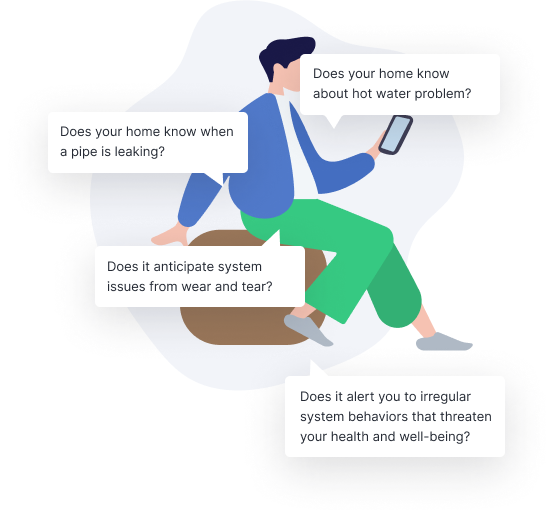
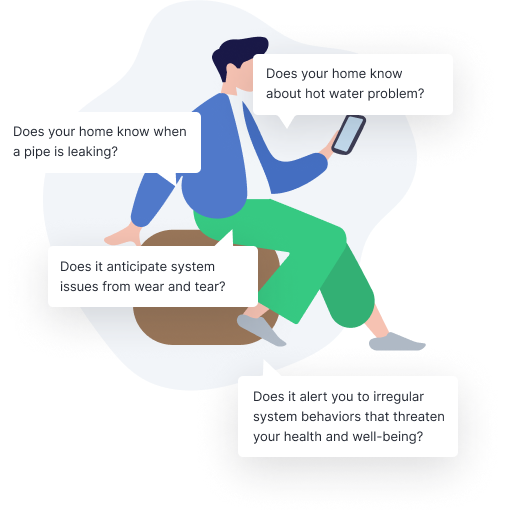
Секция features для dekstop

diff --git a/pages/index.css b/pages/index.css
@@ -10,8 +10,9 @@
   background-repeat: no-repeat;
   background-size: 1100px 840px;
   background-position: top left;
-  height: 100vh;
+  padding-bottom: 160px;
   background-color: #FBFCFF;
+  overflow: hidden;
 }
 
 .header__container {
@@ -88,6 +89,11 @@
   line-height: 15px;
   font-weight: 700;
   color: #262b35;
+  transition: .3s;
+}
+
+.header__btn:hover {
+  color: #1ECE7A;
 }
 
 .header__buttons-item:first-child {
@@ -107,10 +113,13 @@
 
 .header__content-container {
   max-width: 1200px;
-  margin: 0 auto;
+  margin: 75px auto 0;
   position: relative;
   display: flex;
-  margin-left: 200px;
+}
+
+.header__content {
+  margin-top: 50px;
 }
 
 .header__title {
@@ -171,13 +180,13 @@
 
 .header__images {
   position: relative;
-  transform: translateX(200px);
 }
 
 .header__image {
   border-radius: 24px;
   box-shadow: 0px 16px 48px rgba(0, 0, 0, 0.16);
-  position: absolute;
+  margin-left: 200px;
+  position: relative;
 }
 
 .header__image_size_large {
@@ -188,7 +197,125 @@
 .header__image_size_small {
   z-index: 2;
   /* max-width: 400px; */
+  position: absolute;
   width: 400px;
-  left: 188px;
-  bottom: -264px;
+  right: -148px;
+  bottom: -160px;
+}
+
+.section-name {
+  font-family: 'Inter', serif;
+  font-weight: bold;
+  font-size: 15px;
+  line-height: 21px;
+  letter-spacing: 0.6em;
+  color: #1c57c9;
+  text-transform: uppercase;
+}
+
+.section-title {
+  font-family: 'Inter', serif;
+  font-size: 42px;
+  font-weight: bold;
+  line-height: 59px;
+  letter-spacing: -0.02em;
+  color: #262b35;
+}
+
+.section-subtitle {
+  font-family: 'Inter', serif;
+  font-weight: normal;
+  font-size: 18px;
+  line-height: 29px;
+  color: #606c84;
+}
+
+
+.features {
+  max-width: 1200px;
+  margin: 182px auto 0;
+}
+
+.features__quote {
+  max-width: 960px;
+  font-family: 'Inter', serif;
+  font-weight: 500;
+  font-size: 20px;
+  line-height: 32px;
+  letter-spacing: 0.01em;
+  color: #606c84;
+  font-style: italic;
+  margin-bottom: 128px;
+}
+
+.features__content-container {
+  display: flex;
+  align-items: flex-start;
+}
+
+.features__illustration {
+  width: 457px;
+  margin-top: 71px;
+}
+
+.features__content {
+  margin-left: 85px;
+}
+
+.features__section-name {
+  margin-bottom: 16px;
+}
+
+.features__section-title {
+  margin-bottom: 24px;
+}
+
+.features__section-subtitle {
+  max-width: 600px;
+  margin-bottom: 60px;
+}
+
+.features__cards {
+  display: grid;
+  grid-template-columns: repeat(2, minmax(min-content, max-content));
+  grid-template-rows: repeat(2, minmax(min-content, max-content));
+  row-gap: 59px;
+  column-gap: 10px;
+}
+
+.features__card {
+
+}
+
+.features__card-ico {
+  margin-bottom: 36px;
+  height: 55px;
+  width: 55px;
+  margin-bottom: 36px;
+}
+
+.features__card-title {
+  margin-bottom: 16px;
+  max-width: 242px;
+  color: #262b35;
+}
+
+.features__card-text {
+  color: #606c84;
+  max-width: 260px;
+}
+
+
+.card-title {
+  font-family: 'Inter', serif;
+  font-size: 18px;
+  line-height: 24px;
+  font-weight: 600;
+}
+
+.card-text {
+  font-family: 'Inter', serif;
+  font-weight: normal;
+  font-size: 15px;
+  line-height: 24px;
 }

diff --git a/index.html b/index.html
@@ -53,6 +53,55 @@
       </div>
     </div>
   </header>
+  <main>
+    <section class="features">
+      <blockquote class="features__quote">
+        Every day your home faces countless potential threats. Every day you face countless potential headaches. A small problem can become a major disaster. Early warning signs exist but often you can't hear or see them.
+      </blockquote>
+      <div class="features__content-container">
+        <img src="./images/features__illustation.png" alt="Features" class="features__illustration">
+        <div class="features__content">
+          <p class="features__section-name section-name">
+            Features
+          </p>
+          <h2 class="features__section-title section-title">Meet Siophome</h2>
+          <p class="features__section-subtitle section-subtitle">
+            The most comprehensive smart solution to home maintenance. All it takes is a simple and affordable sensor installation by one of our Siphome certified technicians.
+          </p>
+          <ul class="features__cards">
+            <li class="features__card">
+              <img src="./images/features__ico/features__icon-alarm.svg" alt="Alarm" class="features__card-ico">
+              <h3 class="features__card-title card-title">Automatic Threat Detection</h3>
+              <p class="features__card-text card-text">
+                Siphome reacts the moment your equipment fails, alerting you to the problem.
+              </p>
+            </li>
+            <li class="features__card">
+              <img src="./images/features__ico/features__icon-diagnostic.svg" alt="Diagtnostic" class="features__card-ico">
+              <h3 class="features__card-title card-title">Smart Diagnostics</h3>
+              <p class="features__card-text card-text">
+                See exactly what is malfunctioning and compare your maintenance options on the same screen.
+              </p>
+            </li>
+            <li class="features__card">
+              <img src="./images/features__ico/features__icon-insurance.svg" alt="Insurance" class="features__card-ico">
+              <h3 class="features__card-title card-title">Disaster Prevention</h3>
+              <p class="features__card-text card-text">
+                Predictive analytics lets you see what needs maintenance before it fails.
+              </p>
+            </li>
+            <li class="features__card">
+              <img src="./images/features__ico/features__icon-support.svg" alt="Support" class="features__card-ico card-ico">
+              <h3 class="features__card-title card-title">24/7 Service</h3>
+              <p class="features__card-text card-text">
+                Siphome monitors your critical systems 24/7 so you can enjoy peace of mind.
+              </p>
+            </li>
+          </ul>
+        </div>
+      </div>
+    </section>
+  </main>
 </body>
 
 </html>
